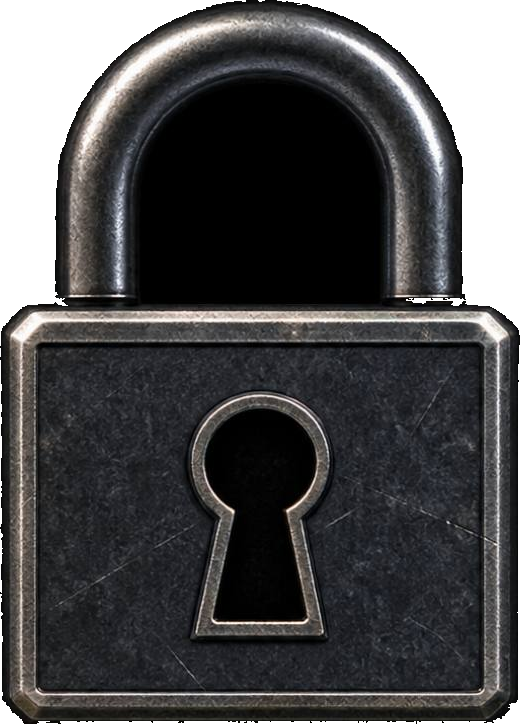
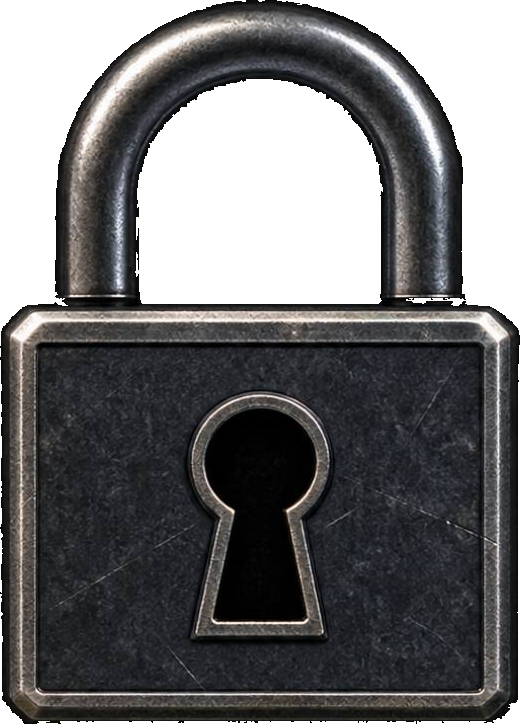
reforged: fix padlock shackle transparency

Changed region(s): [[0.2462, 0.0912, 0.7385, 0.4254]]

diff --git a/tools/reforged/frontend/build_approved_padlock.py b/tools/reforged/frontend/build_approved_padlock.py
@@ -62,8 +62,8 @@ def _largest_component(mask: bytearray, width: int, height: int) -> bytearray:
     return result
 
 
-def _fill_enclosed_regions(core: bytearray, width: int, height: int) -> bytearray:
-    """Keep every region enclosed by the silhouette opaque, regardless of RGB."""
+def _classify_enclosed_regions(core: bytearray, width: int, height: int) -> tuple[bytearray, tuple[int, int, int, int]]:
+    """Keep object cavities opaque except the large upper shackle opening."""
     outside = bytearray(width * height)
     queue: deque[int] = deque()
     for x in range(width):
@@ -87,7 +87,43 @@ def _fill_enclosed_regions(core: bytearray, width: int, height: int) -> bytearra
                 continue
             outside[neighbour] = 1
             queue.append(neighbour)
-    return bytearray(255 if core[i] or not outside[i] else 0 for i in range(width * height))
+    enclosed = bytearray(1 if not core[i] and not outside[i] else 0 for i in range(width * height))
+    visited = bytearray(width * height)
+    candidates: list[tuple[int, list[int], tuple[int, int, int, int]]] = []
+    object_rows = [i // width for i, value in enumerate(core) if value]
+    object_mid_y = (min(object_rows) + max(object_rows)) / 2
+    for start, enabled in enumerate(enclosed):
+        if not enabled or visited[start]:
+            continue
+        visited[start] = 1
+        queue = deque([start])
+        component: list[int] = []
+        while queue:
+            index = queue.popleft()
+            component.append(index)
+            x, y = index % width, index // width
+            for neighbour in (index - 1, index + 1, index - width, index + width):
+                if neighbour < 0 or neighbour >= width * height or visited[neighbour] or not enclosed[neighbour]:
+                    continue
+                nx, ny = neighbour % width, neighbour // width
+                if abs(nx - x) + abs(ny - y) != 1:
+                    continue
+                visited[neighbour] = 1
+                queue.append(neighbour)
+        xs = [i % width for i in component]
+        ys = [i // width for i in component]
+        bounds = (min(xs), min(ys), max(xs) + 1, max(ys) + 1)
+        if bounds[3] < object_mid_y and len(component) > width * height * .005:
+            candidates.append((len(component), component, bounds))
+    if not candidates:
+        raise RuntimeError("could not identify the enclosed shackle opening")
+    _, shackle_opening, shackle_bounds = max(candidates, key=lambda candidate: candidate[0])
+    shackle_set = set(shackle_opening)
+    matte = bytearray(
+        255 if core[i] or (enclosed[i] and i not in shackle_set) else 0
+        for i in range(width * height)
+    )
+    return matte, shackle_bounds
 
 
 def build_runtime() -> dict[str, object]:
@@ -103,7 +139,9 @@ def build_runtime() -> dict[str, object]:
     pixels = list(source.getdata())
     signal = bytearray(max(pixel) for pixel in pixels)
     candidate = bytearray(value > CORE_THRESHOLD for value in signal)
-    matte = _fill_enclosed_regions(_largest_component(candidate, width, height), width, height)
+    matte, shackle_bounds = _classify_enclosed_regions(
+        _largest_component(candidate, width, height), width, height
+    )
     full = Image.new("RGBA", source.size)
     full.putdata([(*rgb, alpha) if alpha else (0, 0, 0, 0) for rgb, alpha in zip(pixels, matte)])
     source_bounds = full.getchannel("A").getbbox()
@@ -127,12 +165,13 @@ def build_runtime() -> dict[str, object]:
             "format": "PNG", "dimensions": list(runtime.size), "mode": "RGBA",
             "sha256": sha256_path(RUNTIME), "sourceVisibleBounds": list(source_bounds),
             "alphaBounds": list(runtime.getchannel("A").getbbox() or ()),
+            "transparentShackleOpeningSourceBounds": list(shackle_bounds),
         },
         "matte": {
             "required": True,
             "reason": "approved JPEG contains a black presentation field and no alpha channel",
             "coreThreshold": CORE_THRESHOLD,
-            "method": "largest connected silhouette plus border flood/hole fill; enclosed dark keyhole and shackle regions remain opaque",
+            "method": "largest connected silhouette plus border flood; the largest enclosed cavity wholly above the silhouette midpoint is classified as the open shackle hole, while lower enclosed cavities such as the keyhole remain opaque",
             "visualRedesign": False,
         },
     }

diff --git a/tools/reforged/frontend/publish_main_menu_reviews.py b/tools/reforged/frontend/publish_main_menu_reviews.py
@@ -42,7 +42,7 @@ EXPECTED_PROMPT_RUNTIME_SHA256 = {
[1 lines of base64/hex data omitted]
 }
[3 lines of base64/hex data omitted]
 FONT_FILES = {
[2 lines of base64/hex data omitted]
@@ -324,23 +324,33 @@ def render_reviews() -> dict[str, dict[str, object]]:
     padlock_draw.text((40, 28), "HUMAN-APPROVED LOCKED-STATE PADLOCK", font=padlock_heading, fill=(240, 233, 217))
     padlock_draw.text((40, 60), f"source 1280x1260 JPEG  {EXPECTED_PADLOCK_SOURCE_SHA256}", font=padlock_heading, fill=(176, 179, 178))
     padlock_draw.text((40, 92), f"runtime 520x724 RGBA  {EXPECTED_PADLOCK_RUNTIME_SHA256}", font=padlock_heading, fill=(176, 179, 178))
-    enlarged = ui.render_locked_padlock(padlock_diagnostic, (165, 375), 420, PADLOCK_RUNTIME_PATH)
+    checker_box = (40, 140, 570, 630)
+    checker_size = 28
+    for y in range(checker_box[1], checker_box[3], checker_size):
+        for x in range(checker_box[0], checker_box[2], checker_size):
+            value = 214 if ((x - checker_box[0]) // checker_size + (y - checker_box[1]) // checker_size) % 2 else 126
+            padlock_draw.rectangle((x, y, min(x + checker_size, checker_box[2]), min(y + checker_size, checker_box[3])), fill=(value, value, value))
+    padlock_draw.rectangle((650, 140, 1180, 630), fill=(199, 225, 246))
+    checker_sample = ui.render_locked_padlock(padlock_diagnostic, (175, 385), 390, PADLOCK_RUNTIME_PATH)
+    bright_sample = ui.render_locked_padlock(padlock_diagnostic, (785, 385), 390, PADLOCK_RUNTIME_PATH)
+    padlock_draw.text((55, 150), "CHECKERBOARD TRANSPARENCY", font=padlock_heading, fill=(20, 25, 31))
+    padlock_draw.text((665, 150), "BRIGHT CONTRAST BACKGROUND", font=padlock_heading, fill=(20, 25, 31))
     locked_font = ui._font(52, tokens, "regular")
-    label_position = (680.0, 330.0)
+    label_position = (680.0, 650.0)
     ui.render_material_text(padlock_diagnostic, label_position, "SINGLE MISSION REPLAY", locked_font, "locked")
     layout = ui.layout_for_viewport(1920, 1080, tokens)
     anchor, text_bounds = ui.locked_padlock_placement(layout, label_position, "SINGLE MISSION REPLAY", locked_font, tokens)
     menu_scale = ui.render_locked_padlock(padlock_diagnostic, anchor, tokens["padlock"]["visibleHeight"], PADLOCK_RUNTIME_PATH)
     padlock_draw.rectangle(text_bounds, outline=(92, 148, 178), width=1)
     padlock_draw.rectangle((menu_scale["pasteX"], menu_scale["pasteY"], menu_scale["pasteX"] + menu_scale["renderedWidth"], menu_scale["pasteY"] + menu_scale["renderedHeight"]), outline=(92, 148, 178), width=1)
-    padlock_draw.text((40, 720), "Runtime alpha bounds: 520x724. UI visible size: 22x30 px. Label gap: 12 px.", font=padlock_heading, fill=(216, 212, 200))
+    padlock_draw.text((40, 720), "Runtime alpha bounds: 520x724. Shackle opening transparent; keyhole opaque. UI: 22x30 px; gap: 12 px.", font=padlock_heading, fill=(216, 212, 200))
     padlock_diagnostic_path = OUTPUT_ROOT / PADLOCK_DIAGNOSTIC_NAME
     padlock_diagnostic.save(padlock_diagnostic_path, "PNG", optimize=False, compress_level=9)
     manifest[PADLOCK_DIAGNOSTIC_NAME] = {
         "dimensions": list(PADLOCK_DIAGNOSTIC_SIZE), "mode": padlock_diagnostic.mode,
         "sha256": sha256_path(padlock_diagnostic_path), "bytes": padlock_diagnostic_path.stat().st_size,
         "sourceSha256": EXPECTED_PADLOCK_SOURCE_SHA256, "runtimeSha256": EXPECTED_PADLOCK_RUNTIME_SHA256,
-        "samples": {"enlarged": enlarged, "menuScale": menu_scale, "textBounds": list(text_bounds)},
+        "samples": {"checkerboard": checker_sample, "brightContrast": bright_sample, "menuScale": menu_scale, "textBounds": list(text_bounds)},
         "provenance": "public-safe project diagnostic using locked approved Reforged padlock artwork",
     }
     return manifest

diff --git a/tests/reforged/test_main_menu_reforged.py b/tests/reforged/test_main_menu_reforged.py
@@ -38,7 +38,7 @@ PROMPT_HASHES = {
 PADLOCK_SOURCE = ROOT / "assets/reforged/frontend/main-menu/padlock/approved/source/spartan-padlock-approved.jpg"
 PADLOCK_RUNTIME = ROOT / "assets/reforged/frontend/main-menu/padlock/approved/runtime/spartan-padlock-approved.png"
[3 lines of base64/hex data omitted]
 
 
 class MainMenuReforgedTests(unittest.TestCase):
@@ -90,7 +90,8 @@ class MainMenuReforgedTests(unittest.TestCase):
             alpha = padlock.getchannel("A")
             self.assertEqual(alpha.getbbox(), (0, 0, 520, 724))
             self.assertEqual(alpha.getpixel((0, 0)), 0)
-            self.assertEqual(alpha.getpixel((260, 410)), 255)  # approved dark keyhole region
+            self.assertEqual(alpha.getpixel((260, 200)), 0)  # genuine opening inside the shackle
+            self.assertEqual(alpha.getpixel((260, 511)), 255)  # approved dark keyhole region
 
     def test_padlock_uses_measured_label_bounds_and_resolution_scaling(self) -> None:
         font = UI._font(52, TOKENS, "regular")

diff --git a/assets/reforged/frontend/main-menu/padlock/approved/README.md b/assets/reforged/frontend/main-menu/padlock/approved/README.md
@@ -2,8 +2,9 @@
 
 The JPEG in `source/` preserves the exact human-approved Reforged artwork. It
 must not be recompressed or visually revised. The PNG in `runtime/` removes only
-the connected exterior presentation field; enclosed dark artwork, including the
-keyhole and shackle opening, remains intact. Rebuild it deterministically with
+the connected exterior presentation field and the genuine opening inside the
+U-shaped shackle. Lower enclosed dark artwork, including the keyhole, remains
+opaque. Rebuild it deterministically with
 `tools/reforged/frontend/build_approved_padlock.py`.
 
 This is project-created production art approved for the public repository.
